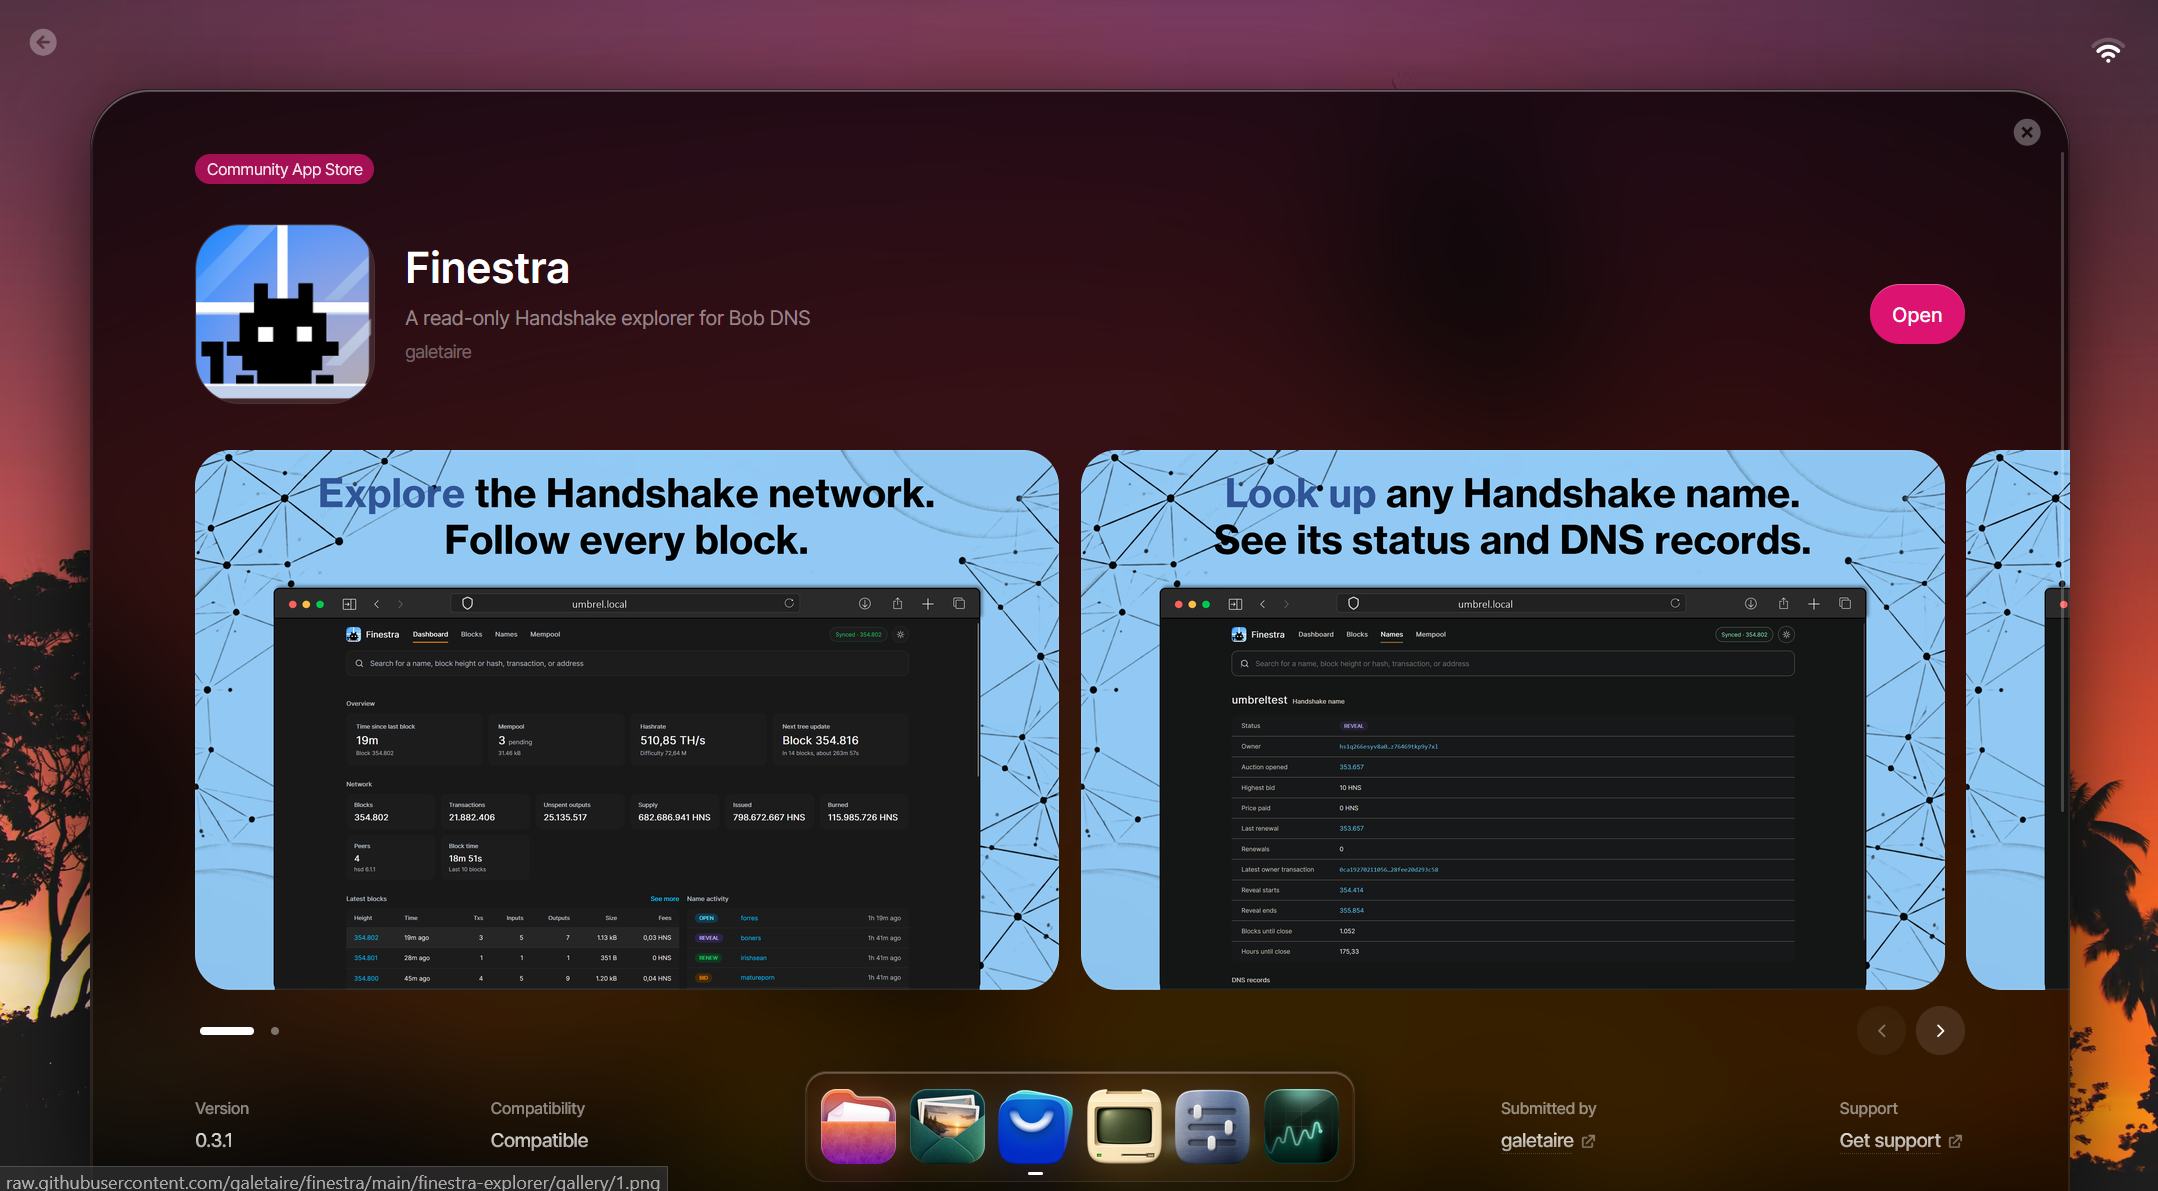
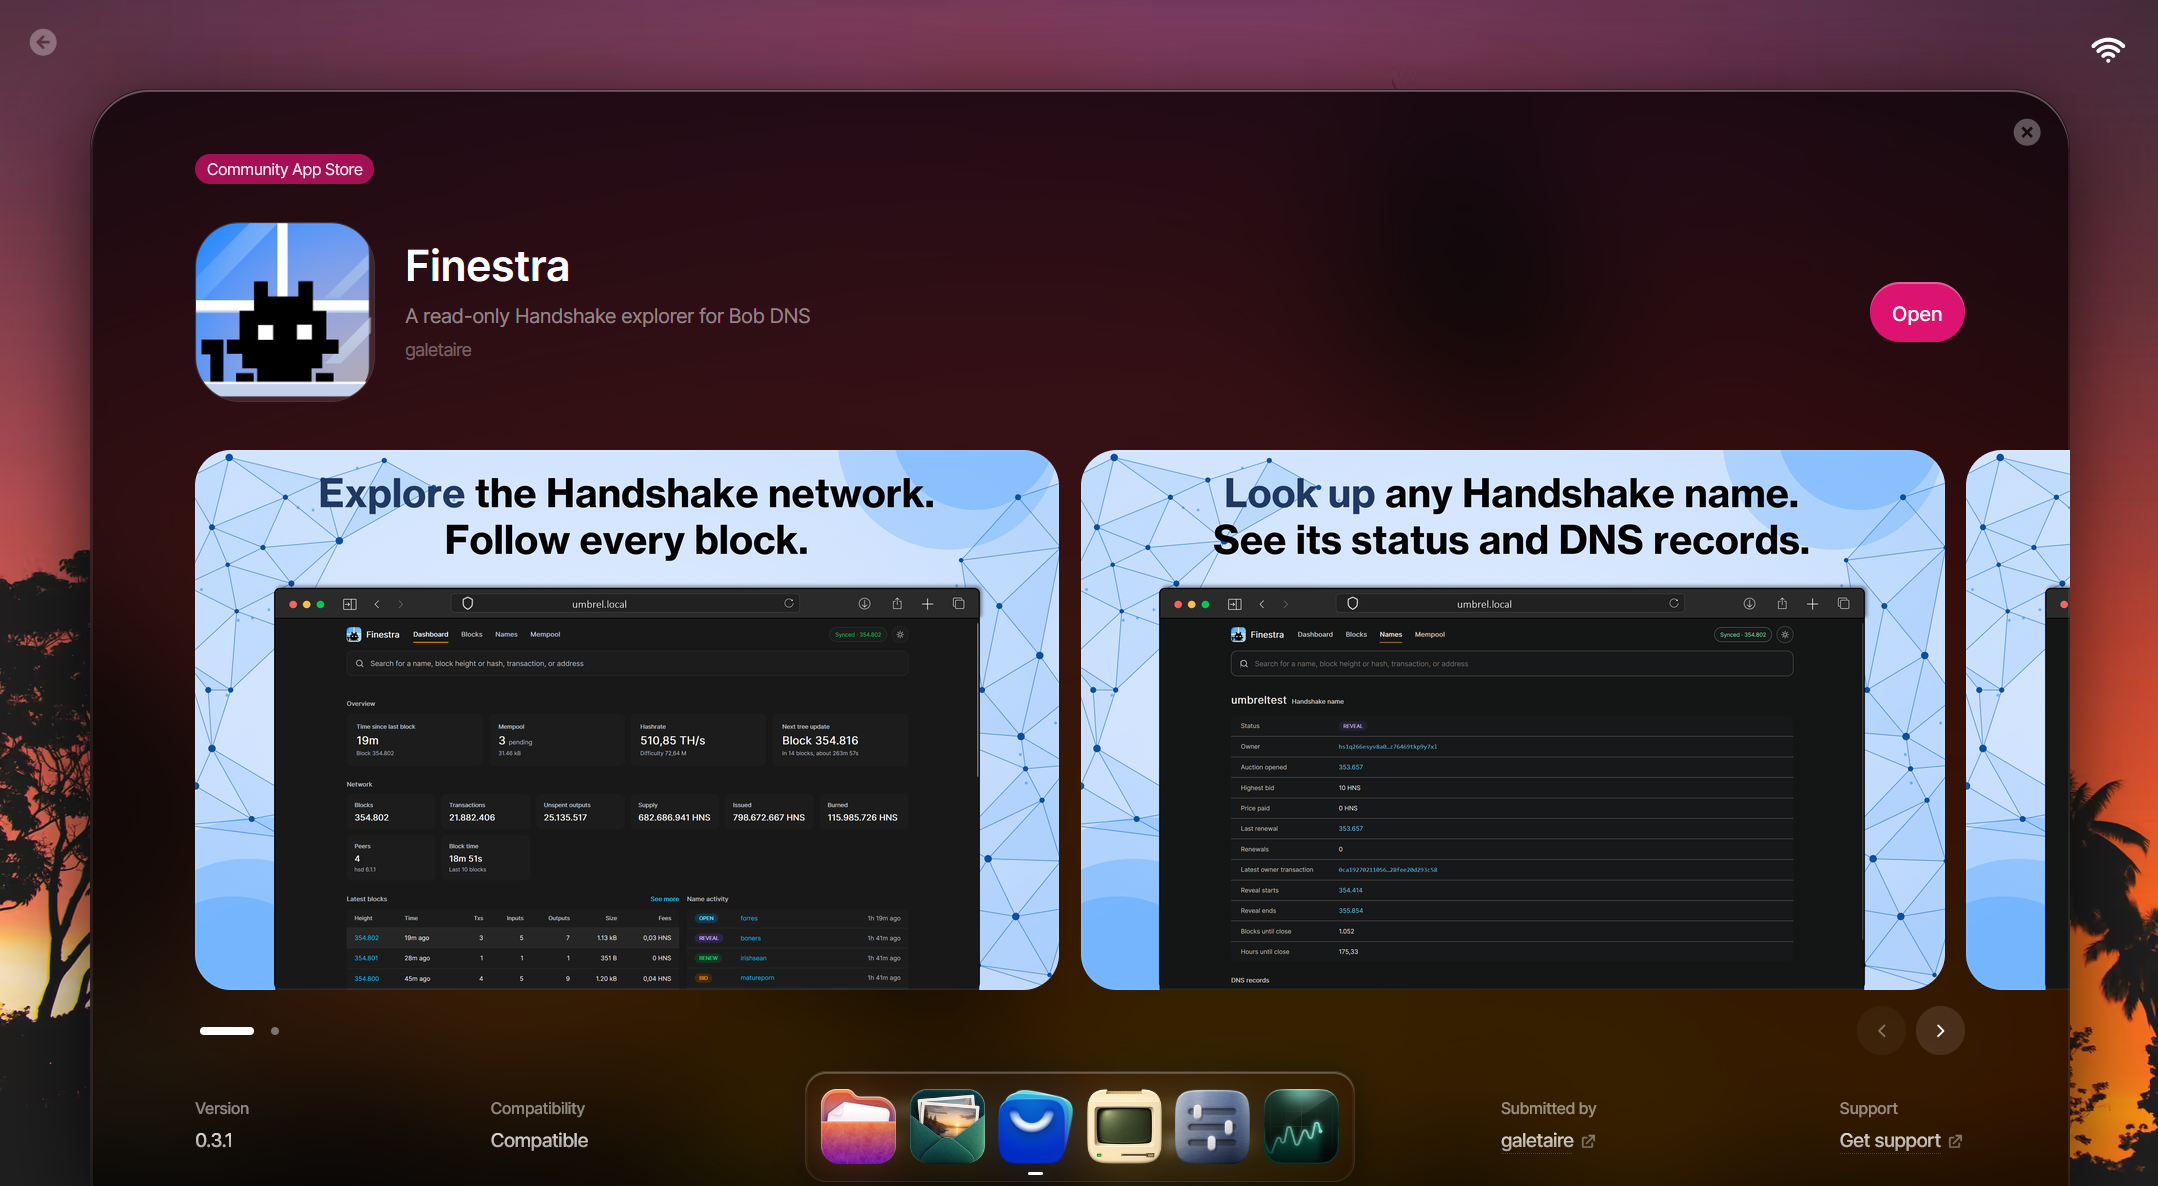
update site

diff --git a/castell.html b/castell.html
@@ -36,7 +36,8 @@
 <h2>How to Host an HTTPS website on a Handshake TLD</h2>
 
 <blockquote>
-  <p><b>Note:</b> ...</p>
+  <p><b>Note:</b> <a href="https://github.com/galetaire/castell" target="_blank" rel="noopener noreferrer"><b>Castell</b></a> is an app that creates the private key and certificate for your TLD, computes the TLSA record and configures the web server (using <a href="https://caddyserver.com/" target="_blank" rel="noopener noreferrer"><b>Caddy</b></a>). It gives you the records to add at your DNS host and the port-forwarding rule to set on your router. Finally, it stores and serves the files for your wesite.
+  </p>
 </blockquote>
 
 <nav class="toc" aria-label="On this page">
@@ -50,17 +51,71 @@
 <h3 id="what-you-need">0. What you need</h3>
 
 <ul>
-  <li>A computer running <a href="https://umbrel.com/umbrelos" target="_blank" rel="noopener noreferrer"><b>UmbrelOS</b></a>.</li>
+  <li>A computer running <a href="https://umbrel.com/umbrelos" target="_blank" rel="noopener noreferrer"><b>UmbrelOS</b></a>, with <a href="https://github.com/galetaire/castell" target="_blank" rel="noopener noreferrer"><b>Castell</b></a> installed.</li>
   <li><a href="https://github.com/shadstoneofficial/bob-wallet/releases" target="_blank" rel="noopener noreferrer"><b>Bob wallet</b></a> or <a href="https://namebase.io/wallet" target="_blank" rel="noopener noreferrer"><b>Namebase wallet</b></a>, with your top-level domain (TLD) and some HNS coins.</li>
   <li>A <a href="https://dns.yeil.app" target="_blank" rel="noopener noreferrer"><b>Yeil DNS</b></a> account.</li>
-  <li>A <b>VPS</b>, not mandatory but higly recommended.</li>
+  <li>A <b>VPS</b> (optional, but highly recommended).</li>
+  <li>A <a href="https://apps.umbrel.com/app/tailscale" target="_blank" rel="noopener noreferrer"><b>Tailscale</b></a> account and its Umbrel app (optional, but highly recommended).</li>
 </ul>
 
 <h3 id="installing-finestra">1. Installing Castell</h3>
 
-<p>Before ....</p>
+<p>Installing Castell is as simple as installing any other Umbrel community app: go to <strong>App Store</strong> → <strong>Community App Stores</strong> → <strong>Manage</strong>, paste <code>https://github.com/galetaire/castell</code> and install <strong>Castell</strong>.</p>
 
-<h3 id="installing-finestra">1. Host a static website</h3>
+<div class="window">
+  <div class="window-bar">🏰 Castell screenshots on Umbrel</div>
+  <div class="collage">
+    <a class="collage-item wide" href="images/castell1.png"><img src="images/castell1.png" alt="Castell app page in the Umbrel community app store" loading="lazy"><span class="collage-caption"><b>1</b> Castell community app available on Umbrel</span></a>
+    <a class="collage-item" href="images/bobdns2.png"><img src="images/bobdns2.png" alt="Umbrel App Store menu with Community App Stores, Manage and the Castell store" loading="lazy"><span class="collage-caption"><b>2</b> Installing Castell as a community app</span></a>
+  </div>
+</div>
+
+<h3 id="wallet">2. Wallet with a TLD and some coins</h3>
+
+<p>You'll need a TLD held in your own Bob Wallet or Namebase Wallet, plus a small amount of HNS (10 HNS is more than enough). If you're new to Handshake, you can get some HNS from the <a href="faucet.html"><strong>faucet</strong></a>.</p>
+
+<p>Once you have some HNS, you can bid on TLDs in name auctions using Bob or Namebase. Both are self-custodial wallets that let you take part in the auctions directly.</p>
+
+<h3 id="yeil-account">3. Yeil DNS account</h3>
+
+<p><a href="https://yeil.org/" target="_blank" rel="noopener noreferrer"><strong>Yeil DNS</strong></a> is a service that lets you point your self-custodied TLD to its nameservers, so you can manage your domain records without giving up custody of your TLD. At any time, you can use your wallet to remove the records that point your TLD to Yeil, ending the connection.</p>
+
+<h3 id="connect-bob-yeil">4. Connect your domain: Bob Wallet ↔ Yeil</h3>
+
+<p>You need to connect your TLD (in your wallet) to Yeil DNS. In your Yeil account, go to <b>New zone</b>, type the TLD name you own, and click <b>Add</b>. Once created it will appear the records you need to add to your TLD in Bob Wallet in order to create the connection.</p>
+
+<div class="window">
+  <div class="window-bar">🐦⬛ Yeil DNS: records for your zone</div>
+  <div class="collage">
+    <a class="collage-item wide" href="images/yeil1.png"><img src="images/yeil1.png" alt="Yeil DNS zone page showing the nameservers and DS record to add at your registrar" loading="lazy"><span class="collage-caption"><b>1</b> Copy the nameservers and the DS record from Yeil</span></a>
+  </div>
+</div>
+
+<p>In Bob Wallet, go to <b>Domain Manager</b> and click your TLD to open a new screen. In the <b>Records</b> section, add the records provided by Yeil:</p>
+
+<ul>
+  <li><b>2 NS records</b> — for example, <code>a.ns.yeil.org</code>, add a point <code>.</code> at the end if encountering errors <code>b.ns.yeil.org.</code></li>
+  <li><b>1 DS record</b> — using the value shown in your Yeil account</li>
+</ul>
+
+<div class="window">
+  <div class="window-bar">🐈⬛ Bob Wallet: Domain Manager</div>
+  <div class="collage">
+    <a class="collage-item wide" href="images/yeil2.png"><img src="images/yeil2.png" alt="Bob Wallet Domain Manager with the DS and NS records added" loading="lazy"><span class="collage-caption"><b>2</b> Add the records to your TLD and click Submit</span></a>
+  </div>
+</div>
+
+<p>Click <b>Submit</b> to save the changes. Updating takes roughly 10–20 minutes (the time for each block to be minted). After that, you should be able to see the new records on any HNS explorer, such as <a href="https://shakeshift.com" target="_blank" rel="noopener noreferrer"><b>Shakeshift</b></a>.</p>
+
+<h3 id="installing-finestra">5. Host a static website</h3>
+
+<p>At this point we can bifurcate the guide into two differen paths:</p>
+
+<ul>
+  <li><b>hostinc a static website opening your router port</b>. A few year this setup should be fine, but currently, with every week or so with critical bugs or exploits, this option can be use as a showcase, but the safer option unlesss you crealy now what you are doing is not open your router ports.</li>
+  <li><b>hosting a static website without opening ports, and using a VPS+Tailscale isntead</b>. This option adds an economis cost, as it is a vPS service, wichh can be obtained for $20-30/year, but is safer since you do not need to open ports.</li>
+</ul>
+
 
 <h4 id="windows">...</h4>
 
@@ -83,10 +138,6 @@
     <a class="collage-item wide" href="images/fingertip6.png"><img src="images/fingertip6.png" alt="The belikebill Handshake site open in Firefox" loading="lazy"><span class="collage-caption"><b>6</b> Visit a Handshake site, e.g. https://belikebill/</span></a>
   </div>
 </div>
-
-
-<h3 id="installing-finestra">1. Host a website using a VPS</h3>
-
 
 </div>
 

diff --git a/bobwallet.html b/bobwallet.html
@@ -57,7 +57,7 @@
 
 <h3 id="installing-learnhns">1. Installing Bob LearnHNS and user guides</h3>
 
-<p><a href="https://bobwallet.org/" target="_blank" rel="noopener noreferrer"><strong>Bob LearnHNS</strong></a> is a stable desktop wallet for browsing, buying, holding and managing Handshake names. It's lightweight by default thanks to SPV mode. Installing it is straightforward: download the latest <a href="https://github.com/shadstoneofficial/bob-wallet/releases" target="_blank" rel="noopener noreferrer"><strong>release</strong></a> for your OS (Windows <code>.msi</code>, macOS <code>.dmg</code> or Linux <code>.AppImage</code>) and install it.</p>
+<p><a href="https://bobwallet.org/" target="_blank" rel="noopener noreferrer"><strong>Bob LearnHNS</strong></a> is a desktop wallet for browsing, buying, holding and managing Handshake names. It's lightweight by default thanks to SPV mode. Installing it is straightforward: download the latest <a href="https://github.com/shadstoneofficial/bob-wallet/releases" target="_blank" rel="noopener noreferrer"><strong>release</strong></a> for your OS (Windows <code>.msi</code>, macOS <code>.dmg</code> or Linux <code>.AppImage</code>) and install it.</p>
 
 <p>The app is quite intuitive, but it isn't just a coin wallet. The coin is only a utility token, and the real value lies in the names. So some features work differently from other wallets, such as sending and receiving names or taking part in auctions.</p>
 

diff --git a/finestra.html b/finestra.html
@@ -57,7 +57,7 @@
 
 <h3 id="installing-finestra">1. Installing Finestra</h3>
 
-<p>Before installing Finestra, you need to install Bob DNS, run it in full node mode and, ideally, wait until the node is fully synced. This is required because Finestra reads its data from the Bob DNS full node. Once these steps are done, installing Finestra is as simple as installing any other Umbrel app: go to <strong>App Store</strong> → <strong>Community App Stores</strong> → <strong>Manage</strong>, paste <code>https://github.com/galetaire/finestra</code> and install <strong>Finestra</strong>.</p>
+<p>Before installing Finestra, you need to install Bob DNS, run it in full node mode and, ideally, wait until the node is fully synced. This is required because Finestra reads its data from the Bob DNS full node. Once these steps are done, installing Finestra is as simple as installing any other Umbrel community app: go to <strong>App Store</strong> → <strong>Community App Stores</strong> → <strong>Manage</strong>, paste <code>https://github.com/galetaire/finestra</code> and install <strong>Finestra</strong>.</p>
 
 <div class="window">
   <div class="window-bar">🪟 Finestra screenshots on Umbrel</div>

diff --git a/yeil.html b/yeil.html
@@ -35,7 +35,7 @@
 <h2>How to Host an HTTP website on a Handshake TLD</h2>
 
 <blockquote>
-<p><strong>Note:</strong> <a href="https://dns.yeil.app" target="_blank" rel="noopener noreferrer"><strong>Yeil DNS</strong></a> is a DNS hosting service that lets you manage your name records from a self-custodial wallet (one TLD free; unlimited for $12/year). This guide uses Bob, but <a href="https://namebase.io/wallet" target="_blank" rel="noopener noreferrer"><strong>Namebase Wallet</strong></a>, from the same team behind Yeil, is another great option that can be used, and I encourage you to try too.</p>
+<p><strong>Note:</strong> <a href="https://yeil.org/" target="_blank" rel="noopener noreferrer"><strong>Yeil DNS</strong></a> is a DNS hosting service that lets you manage your name records from a self-custodial wallet (one TLD free; unlimited for $12/year). This guide uses Bob, but <a href="https://namebase.io/wallet" target="_blank" rel="noopener noreferrer"><strong>Namebase Wallet</strong></a>, from the same team behind Yeil, is another great option that can be used, and I encourage you to try too.</p>
 </blockquote>
 
 <nav class="toc" aria-label="On this page">

diff --git a/fingertip.html b/fingertip.html
@@ -120,7 +120,7 @@
 
 <h4 id="issues">Common issues 🪛</h4>
 
-<p>Is your issue not covered by any of the ones below? Feel free to send me an email or summon/DM me on <a href="https://discord.gg/DpgpU6d5Fz" target="_blank" rel="noopener noreferrer"><strong>Discord</strong> (@galetaire)</a>.</p>
+<p>Is your issue not covered by any of the ones below? Feel free to send me an email or summon/DM me on <a href="https://discord.gg/DpgpU6d5Fz" target="_blank" rel="noopener noreferrer"><strong>Discord</strong></a> (@galetaire).</p>
 
 <details>
   <summary><strong>The old certificate has expired</strong></summary>
